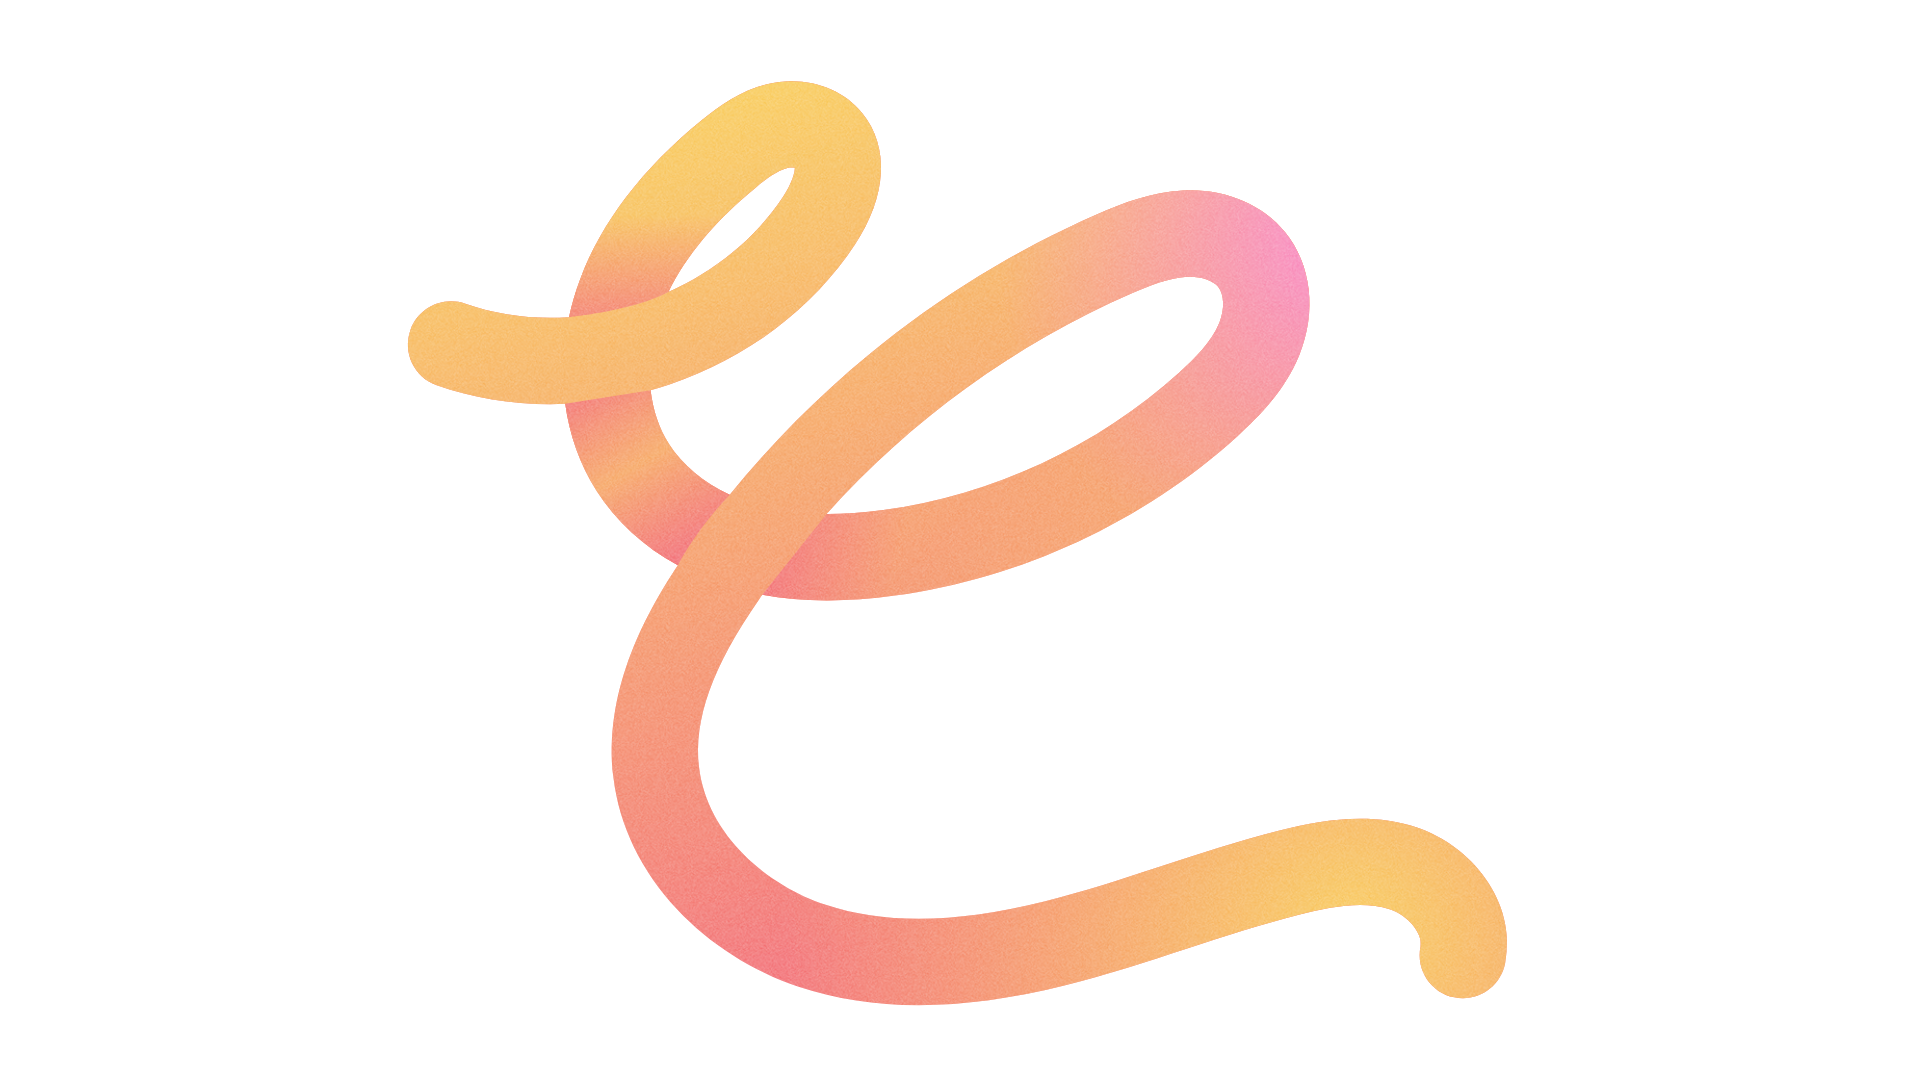
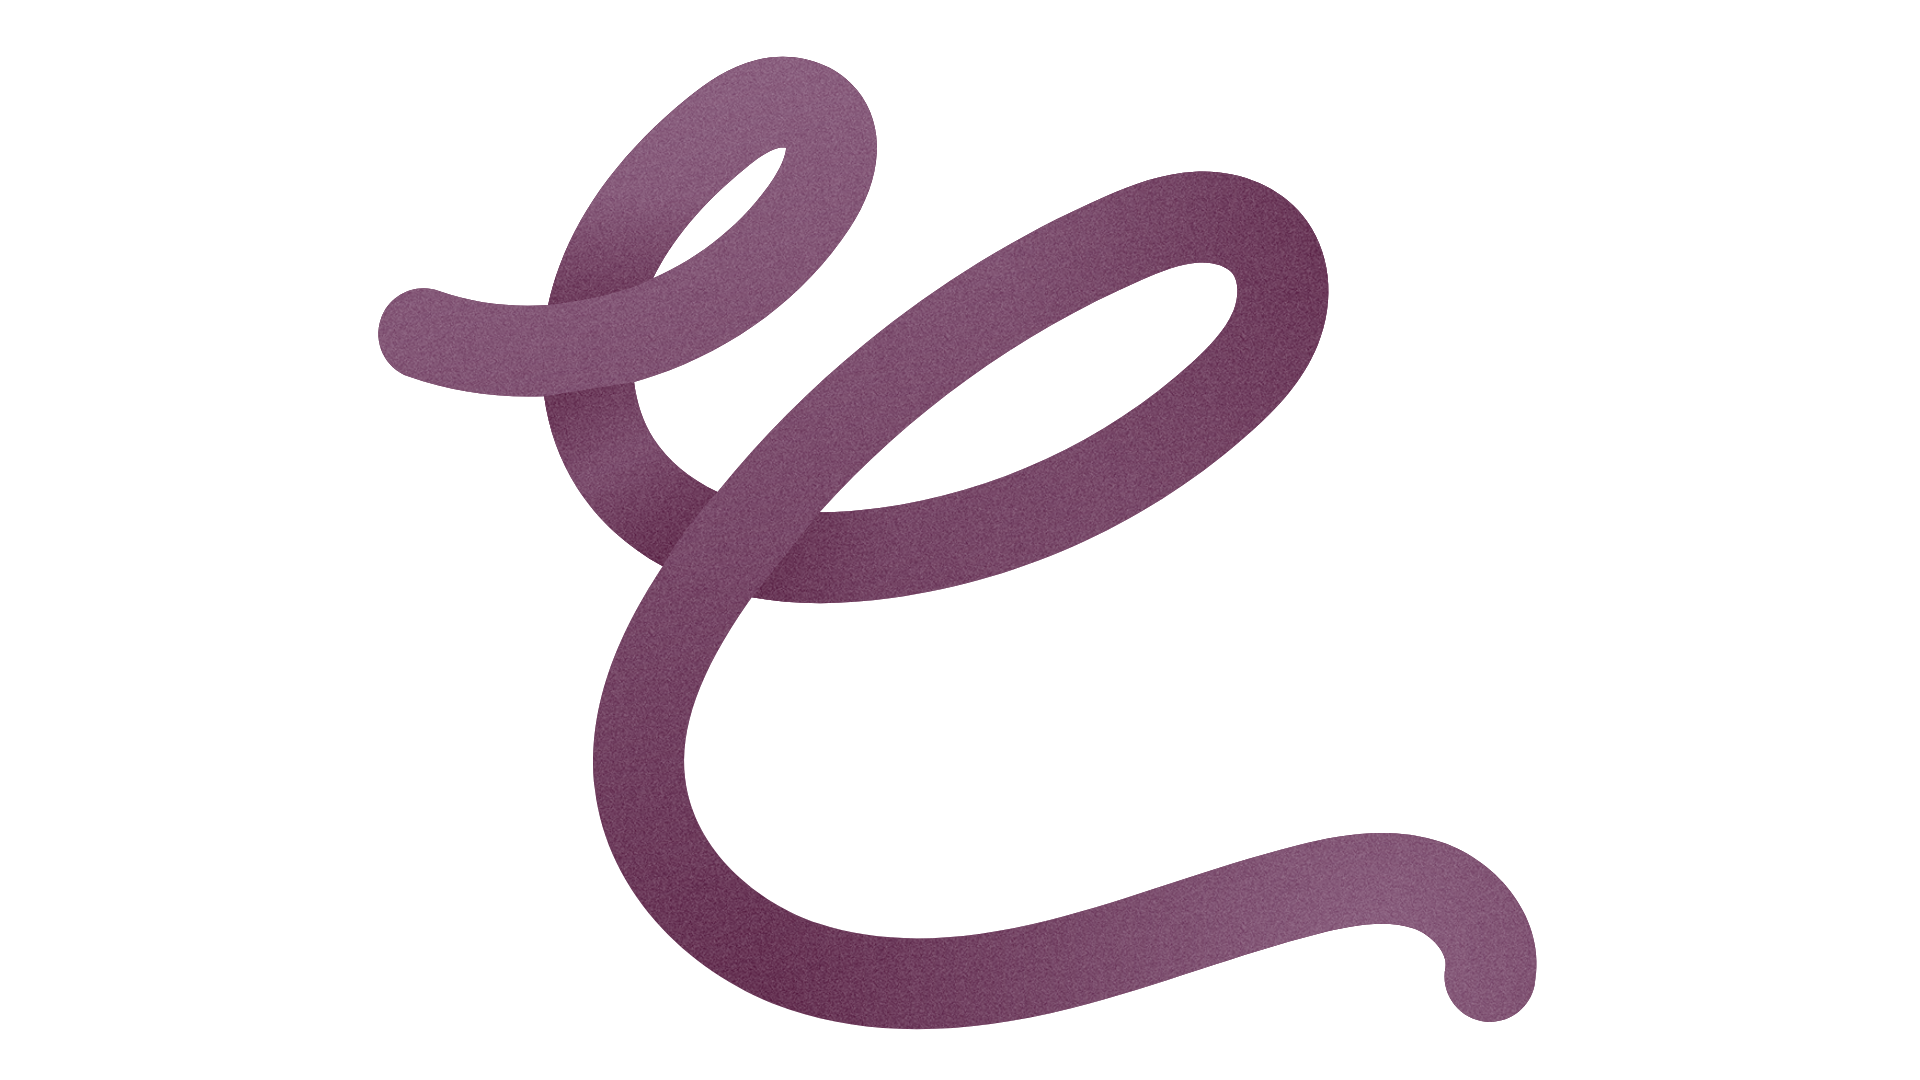
revise

Changed region(s): [[0.1875, 0.0306, 0.8125, 0.9778]]

diff --git a/css/alarm.css b/css/alarm.css
@@ -1,7 +1,7 @@
 @import url(https://fonts.googleapis.com/css?family=Montserrat:100,200,300,regular,500,600,700,800,900,100italic,200italic,300italic,italic,500italic,600italic,700italic,800italic,900italic);
 
 :root {
-  --primary-color: #40b89c;
+  --primary-color: #764469;
   --bg-color: #fff;
 }
 
@@ -16,7 +16,7 @@ body {
   display: flex;
   align-items: center;
   justify-content: center;
-  background-color: #228f75;
+  background-color: #764469;
 }
 .container {
   width: 400px;
@@ -39,7 +39,7 @@ body {
   width: 250px;
   height: 250px;
   border-radius: 50%;
-  box-shadow: 0 0 0 1px #228f7621, 0 5px 15px #228f7663;
+  box-shadow: 0 0 0 1px #76446921, 0 5px 15px #76446921;
 }
 .clock .hand {
   width: 2px;
@@ -188,7 +188,7 @@ body {
   padding: 20px;
   border-radius: 10px;
   background-color: var(--bg-color);
-  box-shadow: 0 0 0 1px #228f7621, 0 3px 5px #228f7663;
+  box-shadow: 0 0 0 1px #76446921, 0 5px 15px #76446921;
   transition: all 0.3s ease;
 }
 .alarms .alarm:hover {
@@ -272,7 +272,7 @@ body {
   color: #fff;
   cursor: pointer;
   text-transform: uppercase;
-  background-color: var(--primary-color);
+  background-color: #3f2234;
 }
 .toggle {
   position: relative;
@@ -330,7 +330,7 @@ body {
   background-color: var(--bg-color);
   border-radius: 10px;
   padding: 20px;
-  box-shadow: 0 0 0 1px #228f7621, 0 3px 15px #228f7663;
+  box-shadow: 0 0 0 1px #76446921, 0 5px 15px #76446921;
 }
 .modal .content .head {
   display: flex;
@@ -412,17 +412,44 @@ body {
 }
 .modal .footer .btn.cancel {
   color: var(--primary-color);
-  background-color: #228f763d;
+  background-color: #7644693d;
 }
 .modal input[type="text"] {
   width: 100%;
   height: 40px;
   border-radius: 5px;
   padding: 0 10px;
-  border: 1px solid #228f7621;
+  border: 1px solid #76446921;
   font-size: 14px;
   font-weight: 700;
   color: var(--primary-color);
   outline: none;
   transition: all 0.3s;
+}
+
+.loginBtn {
+  padding: 0.75em 2em;
+  font-size: 12px;
+  text-transform: uppercase;
+  letter-spacing: 2.5px;
+  font-weight: 500;
+  color: #000;
+  background-color: #fff;
+  border: 15px;
+  border-color: #000;
+  border-radius: 45px;
+  box-shadow: 5px 5px 15px rgba(0, 0, 0, 0.1);
+  transition: all 0.3s ease 0s;
+  cursor: pointer;
+  outline: none;
+}
+  
+.loginBtn:hover {
+  background-color: #764469;
+  color: #fff;
+  transform: translateY(-7px);
+}
+
+.loginBtn:active {
+  transform: translateY(-1px);
 }

diff --git a/css/style.css b/css/style.css
@@ -7,19 +7,64 @@
     font-family: "Montserrat", sans-serif;
 }
 
+/* body{
+    overflow: hidden;
+} */
 .intro{
-    background-color: rgba(255, 255, 255, 0.5); 
-    backdrop-filter: blur(6px);
+    background-color: rgba(255, 255, 255); 
+
     padding: 25px;
     
 }
-
-
+.intro-all{
+    background-color: rgba(252, 249, 251, 0.651); 
+    backdrop-filter: blur(8px);
+    padding: 25px;
+ 
+}
 .clock-image{
     width: 35vw;    
 }
-@media screen and (max-width: 600px) { 
+.greetings-text{
+  font-size: 5rem;
+  color: #77466a; 
+  text-shadow: 0 1px 20px #e6cade;
+}
+@media screen and (max-width: 1000px) { 
 
     .clock-image { display: none; }  
-    
+    .greetings-text{
+      font-size: 3rem;
+    }
 }
+
+.loginBtn {
+    padding: 0.75em 2em;
+    font-size: 12px;
+    text-transform: uppercase;
+    letter-spacing: 2.5px;
+    font-weight: 500;
+    color: #000;
+    background-color: #fff;
+    border: 15px;
+    border-color: #000;
+    border-radius: 45px;
+    box-shadow: 5px 5px 15px rgba(0, 0, 0, 0.1);
+    transition: all 0.3s ease 0s;
+    cursor: pointer;
+    outline: none;
+  }
+    
+  .loginBtn:hover {
+    background-color: #764469;
+    color: #fff;
+    transform: translateY(-7px);
+  }
+  
+  .loginBtn:active {
+    transform: translateY(-1px);
+  }
+
+  .nav-link:hover{
+    color:#764469;
+  }

diff --git a/css/todo-app.css b/css/todo-app.css
@@ -1,6 +1,6 @@
 @import url(https://fonts.googleapis.com/css?family=Poppins:100,100italic,200,200italic,300,300italic,regular,italic,500,500italic,600,600italic,700,700italic,800,800italic,900,900italic);
 :root {
-  --primary-color: #672ee3;
+  --primary-color: #764469;
 }
 * {
   margin: 0;
@@ -15,7 +15,7 @@ body {
   display: flex;
   align-items: center;
   justify-content: center;
-  background-color: #efeef5;
+  background-color: #764469;
 }
 .container {
   position: relative;

diff --git a/css/calendar.css b/css/calendar.css
@@ -1,5 +1,5 @@
 :root {
-  --primary-clr: #672ee3;
+  --primary-clr: #764469;
 }
 * {
   margin: 0;
@@ -12,7 +12,7 @@
   width: 5px;
 }
 ::-webkit-scrollbar-track {
-  background: #f5f5f5;
+  background: #fff;
   border-radius: 50px;
 }
 ::-webkit-scrollbar-thumb {
@@ -38,7 +38,7 @@ body {
   color: #fff;
   display: flex;
   border-radius: 10px;
-  background-color: #672ee3;
+  background-color: #764469;
 }
 .left {
   width: 60%;

diff --git a/home.php b/home.php
@@ -14,7 +14,7 @@
 <body style="background-image: url(images/bg-index.png); background-size: 1240px, auto; background-repeat: no-repeat;  background-position: center; ">
   <nav class="navbar navbar-expand-lg bg-body-tertiary">
     <div class="container-fluid">
-      <a class="navbar-brand" href="#"><b>SkeDaily</b> </a>
+      <a class="navbar-brand" href="#" style="color:#764469;"><i class="fa-solid fa-clock me-2"></i><b>SkeDaily</b> </a>
       <button class="navbar-toggler" type="button" data-bs-toggle="collapse" data-bs-target="#navbarSupportedContent" aria-controls="navbarSupportedContent" aria-expanded="false" aria-label="Toggle navigation">
         <span class="navbar-toggler-icon"></span>
       </button>
@@ -25,13 +25,13 @@
           <a class="nav-link active" aria-current="page" href="#">Home</a>
         </li>
         <li class="nav-item">
-          <a class="nav-link" href="html/alarm.php?uid=<?php echo $_GET['uid']?>">Alarm</a>
+          <a class="nav-link hover-link" href="html/alarm.php?uid=<?php echo $_GET['uid']?>">Alarm</a>
         </li>
         <li class="nav-item">
-          <a class="nav-link" href="html/calendar.php?uid=<?php echo $_GET['uid']?>">Calendar</a>
+          <a class="nav-link hover-link" href="html/calendar.php?uid=<?php echo $_GET['uid']?>">Calendar</a>
         </li>
         <li class="nav-item">
-          <a class="nav-link" href="html/todo-app.php?uid=<?php echo $_GET['uid']?>">To-do</a>
+          <a class="nav-link hover-link" href="html/todo-app.php?uid=<?php echo $_GET['uid']?>">To-do</a>
         </li>
         <li class="nav-item">
           
@@ -43,15 +43,27 @@
   </nav>
   <div class="container">
     <div class="row">
-      <div class="col-11 col-md-5 mt-5 m-3">
-        <h1 style="font-size: 5rem;">
-          <b>Welcome</b><br>
-          <?php echo $_GET['uid']?>
-        </h1>
-        <br>
-        <p class="rounded shadow p-3 intro">SkeDaily aims to help students manage their time, schedule, and workload. One of its features is that it allows user to input their academic tasks and the deadline. When the task's deadline is near, the web application will notify the user of the task two days prior to the deadline. Its other feature lets the user input their schedule in the app's calendar, allowing the students to see their tasks efficiently and their free time quickly. It also has a part where students can create a list of to-do things for their tasks.</p>
+      <div class="col-11 col-md-5 mt-5 m-3 shadow intro-all rounded">
+          <h1 class="text-truncate greetings-text">
+            <b>Welcome</b><br>
+            <?php echo $_GET['uid']?>
+          </h1>
+          <br>
+         <p class="rounded shadow p-3 intro">SkeDaily aims to help students manage their time, schedule, and workload. One of its features is that it allows user to input their academic tasks and the deadline. When the task's deadline is near, the web application will notify the user of the task two days prior to the deadline. Its other feature lets the user input their schedule in the app's calendar, allowing the students to see their tasks efficiently and their free time quickly. It also has a part where students can create a list of to-do things for their tasks.</p>
+      <div class="d-flex justify-content-center" style="flex-wrap: wrap;">
+        <a class="nav-link mb-sm-0 mb-3" href="html/alarm.php?uid=<?php echo $_GET['uid']?>"> 
+          <button class="shadow loginBtn" style="border-radius: 45px;"> Alarm</button>
+        </a>
+        <a class="nav-link mb-sm-0 mb-3" href="html/calendar.php?uid=<?php echo $_GET['uid']?>"> 
+          <button class="shadow loginBtn ms-3" style="border-radius: 45px;">Calendar</button>
+        </a>
+        <a class="nav-link" href="html/todo-app.php?uid=<?php echo $_GET['uid']?>"> 
+          <button class="shadow loginBtn ms-3" style="border-radius: 45px;">To-do</button>
+        </a>
       </div>
-      <div class="col-11 col-md mt-5 m-3 ">
+       
+      </div>
+      <div class="col-11 col-md mt-5 m-3">
         <div class="row justify-content-center">
             <img class="p-2 clock-image" src="images/clock.png" alt="">   
         </div>  

diff --git a/html/alarm.php b/html/alarm.php
@@ -69,8 +69,8 @@
       
       </div>
       <div class="modal-footer">
-        <button type="button" class="btn btn-secondary" data-bs-dismiss="modal">Close</button>
-        <button type="button" class="btn submitModal btn-primary" data-bs-dismiss="modal">Save changes</button>
+        <button type="button" class="loginBtn" data-bs-dismiss="modal">Close</button>
+        <button type="button" class="loginBtn submitModal" data-bs-dismiss="modal">Save changes</button>
       </div>
     </div>
   </div>
